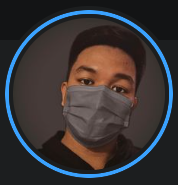
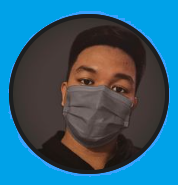
INITIAL

diff --git a/src/main/java/oasys/view/student/panel/Account.java b/src/main/java/oasys/view/student/panel/Account.java
@@ -1,24 +1,70 @@
-package oasys.student.panel;
+package oasys.view.student.panel;
+
+import oasys.view.Constant;
 
 import javax.swing.*;
+import javax.swing.table.DefaultTableCellRenderer;
+import javax.swing.table.DefaultTableModel;
 import java.awt.*;
 
 public class Account extends JPanel {
+    private final JPanel informationPanel = new JPanel();
+    private final JPanel mailBoxPanel = new JPanel();
     private final JPanel picturePanel = new JPanel();
-    private final JPanel information = new JPanel();
     private final JLabel picture = new JLabel();
+    private final DefaultTableModel model = new DefaultTableModel(0,2);
+    private final JTable table = new JTable(model);
+    private final JButton mailBox = new JButton("Mail Box");
 
 
     public Account() {
         setLayout(new GridLayout(2,1));
         setPicturePanel();
+        setInformationPanel();
+
         add(picturePanel);
+        add(informationPanel);
+    }
+
+    private void setInformationPanel() {
+        informationPanel.setBackground(Constant.COLOR_BLUE);
+        informationPanel.setLayout(new BorderLayout());
+
+        model.addRow(new String[]{"Name","Abriol, Joshua GWAPO"});
+        model.addRow(new String[]{"Email","akosiabriolgwapo@gmail.com"});
+        model.addRow(new String[]{"Campus","STI College Fairview"});
+        model.addRow(new String[]{"Academic Level","Secondary"});
+        model.addRow(new String[]{"Section","ICT-103"});
+        model.addRow(new String[]{"Program","Information and Communications Technology"});
+        model.addRow(new String[]{"Year Level","Grade 11"});
+        model.addRow(new String[]{"Student ID","1234567890"});
+        table.setBackground(Constant.COLOR_BLUE);
+
+        DefaultTableCellRenderer renderer = new DefaultTableCellRenderer();
+        renderer.setHorizontalAlignment(JLabel.CENTER);
+        table.setDefaultRenderer(Object.class,renderer); // CENTER TEXT
+        table.setShowVerticalLines(true);
+        table.setShowHorizontalLines(true);
+
+        table.getTableHeader().setReorderingAllowed(false);
+        table.getTableHeader().setResizingAllowed(false);
+        table.setDefaultEditor(Object.class,null); // DISABLE EDIT setEditable(false)
+
+        mailBoxPanel.setLayout(new BorderLayout());
+        mailBoxPanel.setBackground(Constant.COLOR_BLUE);
+        mailBoxPanel.add(mailBox,BorderLayout.EAST);
+
+        informationPanel.add(table,BorderLayout.CENTER);
+        informationPanel.add(mailBoxPanel,BorderLayout.SOUTH);
     }
 
     private void setPicturePanel() {
         ImageIcon icon = new ImageIcon("src/main/resources/images/haha.png");
+        Image img = icon.getImage().getScaledInstance(150,150,Image.SCALE_SMOOTH);
+        icon = new ImageIcon(img);
         picture.setIcon(icon);
 
+        picturePanel.setBackground(Constant.COLOR_BLUE);
         picturePanel.setLayout(new GridBagLayout());
         GridBagConstraints constraints = new GridBagConstraints();
 

diff --git a/src/main/java/oasys/view/login/LogInPanel.java b/src/main/java/oasys/view/login/LogInPanel.java
@@ -1,11 +1,78 @@
-package oasys.view;
+package oasys.view.login;
+
+import oasys.view.Constant;
 
 import javax.swing.*;
 import java.awt.*;
 
-public class LogIn extends JPanel {
-    public LogIn() {
-        setBackground(Color.BLUE);
-        setPreferredSize(new Dimension(600,400));
+public class LogInPanel extends JPanel {
+    private final JPanel logoPanel = new JPanel();
+    private final JPanel inputPanel = new JPanel();
+    private final JPanel logInOption = new JPanel();
+
+    private final JLabel logo = new JLabel();
+    private final JTextField username = new JTextField("Username",15);
+    private final JPasswordField password = new JPasswordField("Password",15);
+    private final JButton logBtn = new JButton("Log In");
+    private final JRadioButton admin = new JRadioButton("admin");
+    private final JRadioButton student = new JRadioButton("student");
+    private final JRadioButton teacher = new JRadioButton("teacher");
+    private final ButtonGroup group = new ButtonGroup();
+
+
+
+    public LogInPanel() {
+        setPreferredSize(new Dimension(650,400));
+        setLayout(new GridLayout(2,1));
+
+        setLogoPanel();
+        setInputPanel();
+
+        add(logoPanel);
+        add(inputPanel);
+    }
+
+    public void setLogoPanel() {
+        logoPanel.setBackground(Constant.COLOR_BLUE);
+        logoPanel.setLayout(new GridBagLayout());
+        GridBagConstraints constraints = new GridBagConstraints();
+
+        ImageIcon icon = new ImageIcon("src/main/resources/images/oasys.png");
+        logo.setIcon(icon);
+
+        constraints.anchor = GridBagConstraints.CENTER;
+        logoPanel.add(logo,constraints);
+    }
+
+    public void setInputPanel() {
+        inputPanel.setBackground(Constant.COLOR_BLUE);
+        inputPanel.setLayout(new GridBagLayout());
+        GridBagConstraints constraints = new GridBagConstraints();
+        constraints.anchor = GridBagConstraints.CENTER;
+        constraints.insets = new Insets(2,2,2,2);
+
+        constraints.gridx = 0;
+        constraints.gridy = 0;
+        inputPanel.add(username,constraints);
+        constraints.gridx = 0;
+        constraints.gridy = 1;
+        inputPanel.add(password,constraints);
+        constraints.gridx = 0;
+        constraints.gridy = 2;
+        inputPanel.add(logBtn,constraints);
+
+        logInOption.setLayout(new GridLayout(1,3));
+        group.add(admin);
+        group.add(student);
+        group.add(teacher);
+        logInOption.add(admin);
+        logInOption.add(student);
+        logInOption.add(teacher);
+
+        constraints.fill = GridBagConstraints.BOTH;
+        constraints.gridx = 0;
+        constraints.gridy = 3;
+        inputPanel.add(logInOption,constraints);
+
     }
 }

diff --git a/src/main/java/oasys/OASYSApplication.java b/src/main/java/oasys/OASYSApplication.java
@@ -1,4 +1,24 @@
-package oasis;
+package oasys;
 
-public class OasisApplication {
+import com.formdev.flatlaf.FlatDarculaLaf;
+import com.formdev.flatlaf.FlatIntelliJLaf;
+import oasys.view.login.LogInFrame;
+import oasys.view.student.StudentFrame;
+
+import javax.swing.*;
+import java.awt.*;
+
+public class OASYSApplication {
+
+    public static void main(String[]args) {
+        EventQueue.invokeLater(() -> {
+            try {
+                UIManager.setLookAndFeel(new FlatIntelliJLaf());
+              new StudentFrame();
+//                new LogInFrame();
+            }catch (Exception e) {
+                e.printStackTrace();
+            }
+        });
+    }
 }

diff --git a/src/main/java/oasys/view/login/LogInFrame.java b/src/main/java/oasys/view/login/LogInFrame.java
@@ -1,2 +1,16 @@
-package oasys.view.login;public class LogInFrame {
+package oasys.view.login;
+
+
+import javax.swing.*;
+
+public class LogInFrame extends JFrame  {
+    public LogInFrame() {
+
+        add(new LogInPanel());
+        pack();
+        setDefaultCloseOperation(JFrame.EXIT_ON_CLOSE);
+        setResizable(false);
+        setLocationRelativeTo(null);
+        setVisible(true);
+    }
 }

diff --git a/src/main/java/oasys/view/student/StudentPanel.java b/src/main/java/oasys/view/student/StudentPanel.java
@@ -1,8 +1,8 @@
-package oasys.student;
+package oasys.view.student;
 
-import oasys.student.panel.Account;
-import oasys.student.panel.Dashboard;
-import oasys.student.panel.Teacher;
+import oasys.view.student.panel.Account;
+import oasys.view.student.panel.Dashboard;
+import oasys.view.student.panel.Teacher;
 
 import javax.swing.*;
 import java.awt.*;

diff --git a/src/main/java/oasys/view/Constant.java b/src/main/java/oasys/view/Constant.java
@@ -1,2 +1,8 @@
-package oasys.view;public class Constant {
+package oasys.view;
+
+import java.awt.*;
+
+public interface Constant {
+   static Color COLOR_BLUE = new Color(0,162,232);
+   static Color COLOR_DARK_GRAY = new Color(64,64,64);
 }

diff --git a/src/main/java/oasys/view/student/mailbox/MailBox.java b/src/main/java/oasys/view/student/mailbox/MailBox.java
@@ -1,2 +1,7 @@
-package oasys.view.student.mailbox;public class MailBox {
+package oasys.view.student.mailbox;
+
+import javax.swing.*;
+
+public class MailBox extends JFrame {
+    private final JPanel mainPanel = new JPanel();
 }

diff --git a/src/main/java/oasys/view/student/panel/Dashboard.java b/src/main/java/oasys/view/student/panel/Dashboard.java
@@ -1,4 +1,4 @@
-package oasys.student.panel;
+package oasys.view.student.panel;
 
 import javax.swing.*;
 

diff --git a/src/main/java/oasys/view/student/panel/Teacher.java b/src/main/java/oasys/view/student/panel/Teacher.java
@@ -1,4 +1,4 @@
-package oasys.student.panel;
+package oasys.view.student.panel;
 
 import javax.swing.*;
 

diff --git a/src/main/java/oasys/view/student/StudentFrame.java b/src/main/java/oasys/view/student/StudentFrame.java
@@ -1,4 +1,4 @@
-package oasys.student;
+package oasys.view.student;
 
 import javax.swing.*;
 
